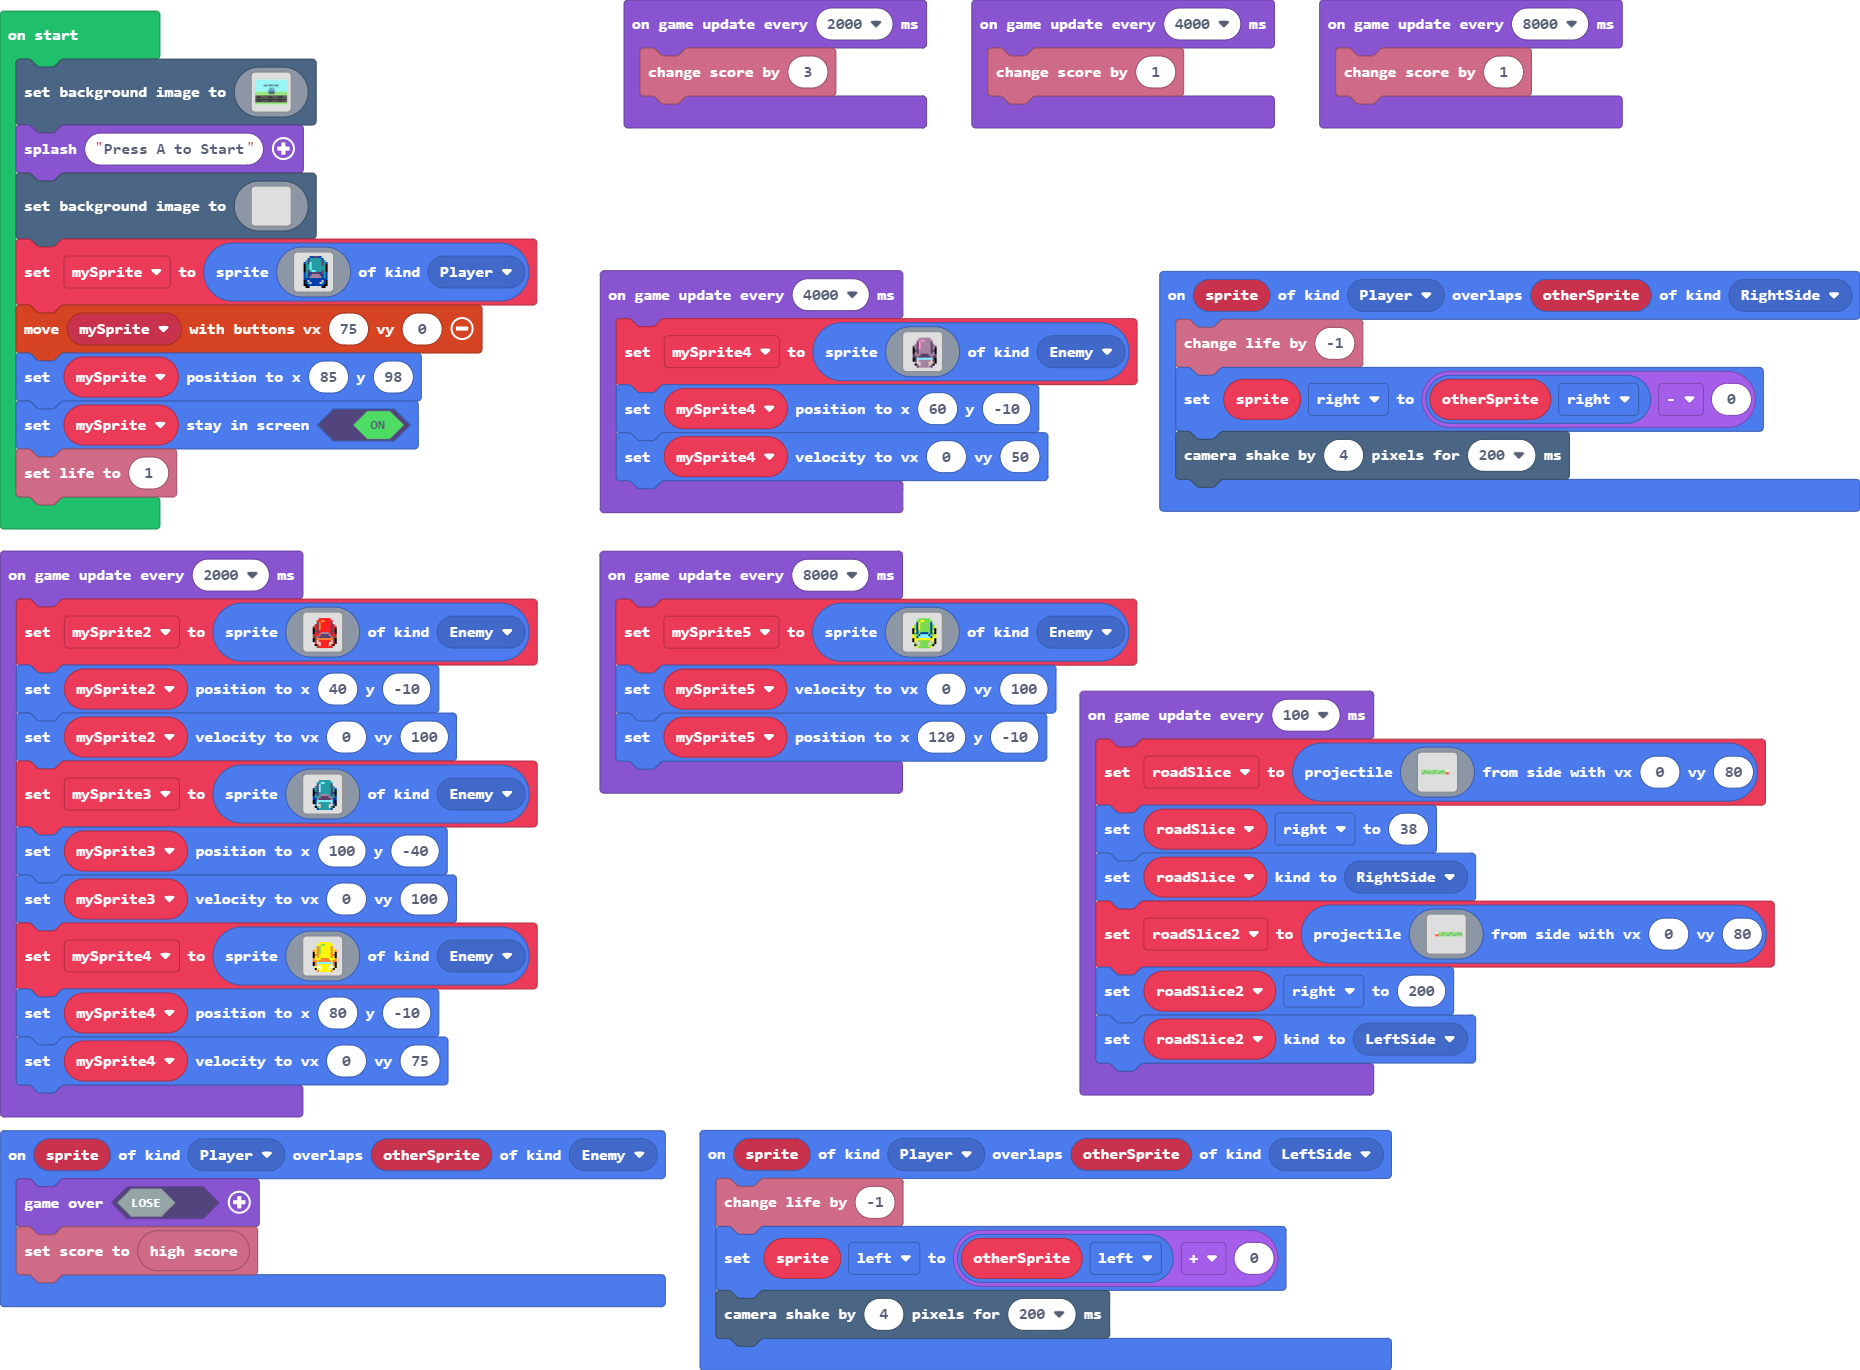
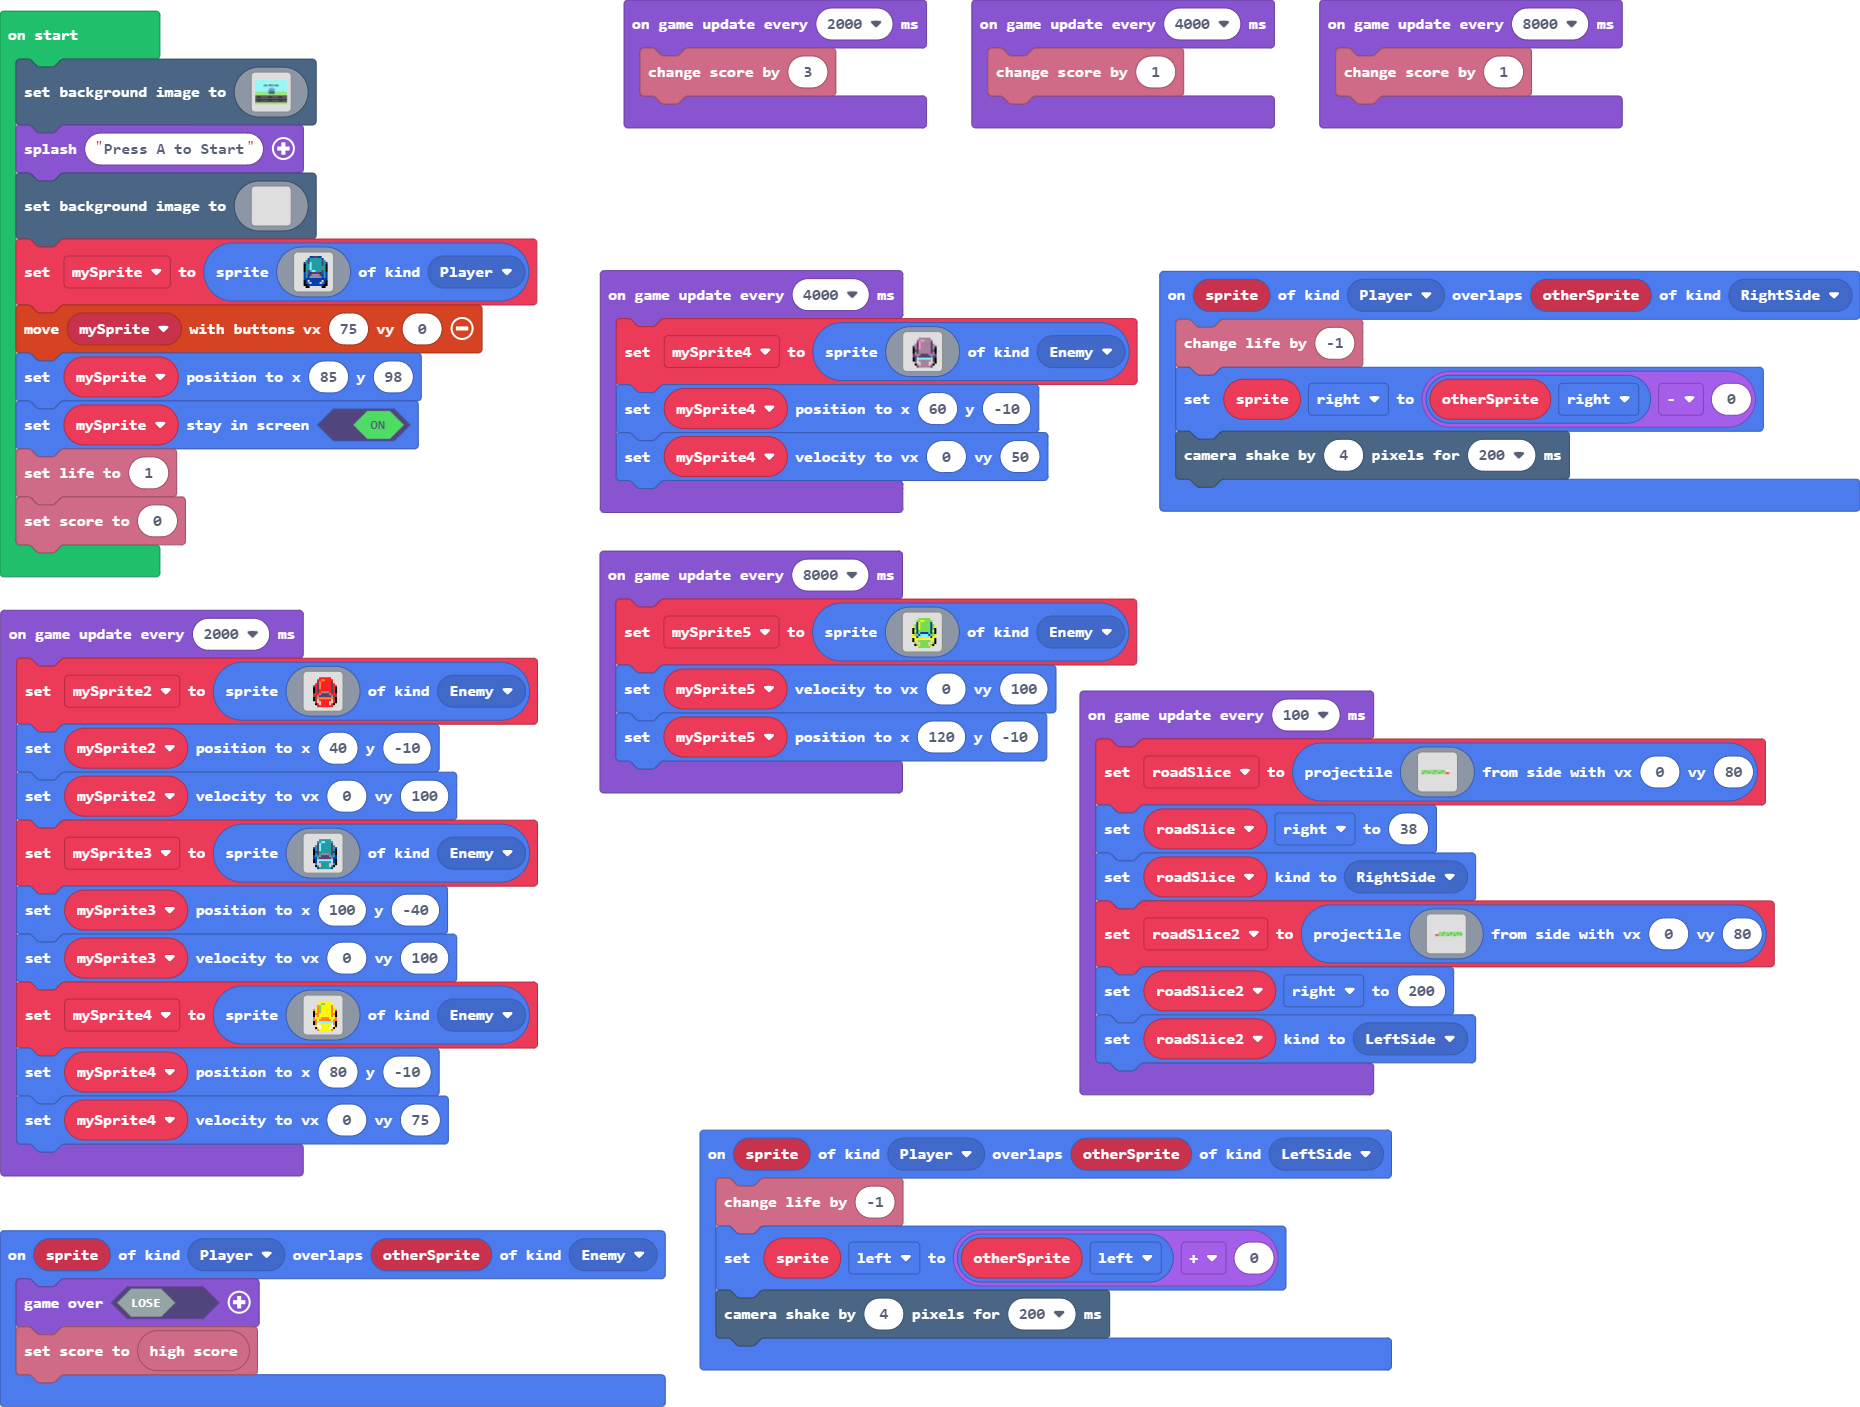
Update main.blocks, main.ts

diff --git a/main.ts b/main.ts
@@ -289,6 +289,7 @@ controller.moveSprite(mySprite, 75, 0)
 mySprite.setPosition(85, 98)
 mySprite.setStayInScreen(true)
 info.setLife(1)
+info.setScore(0)
 game.onUpdateInterval(2000, function () {
     info.changeScoreBy(3)
 })
